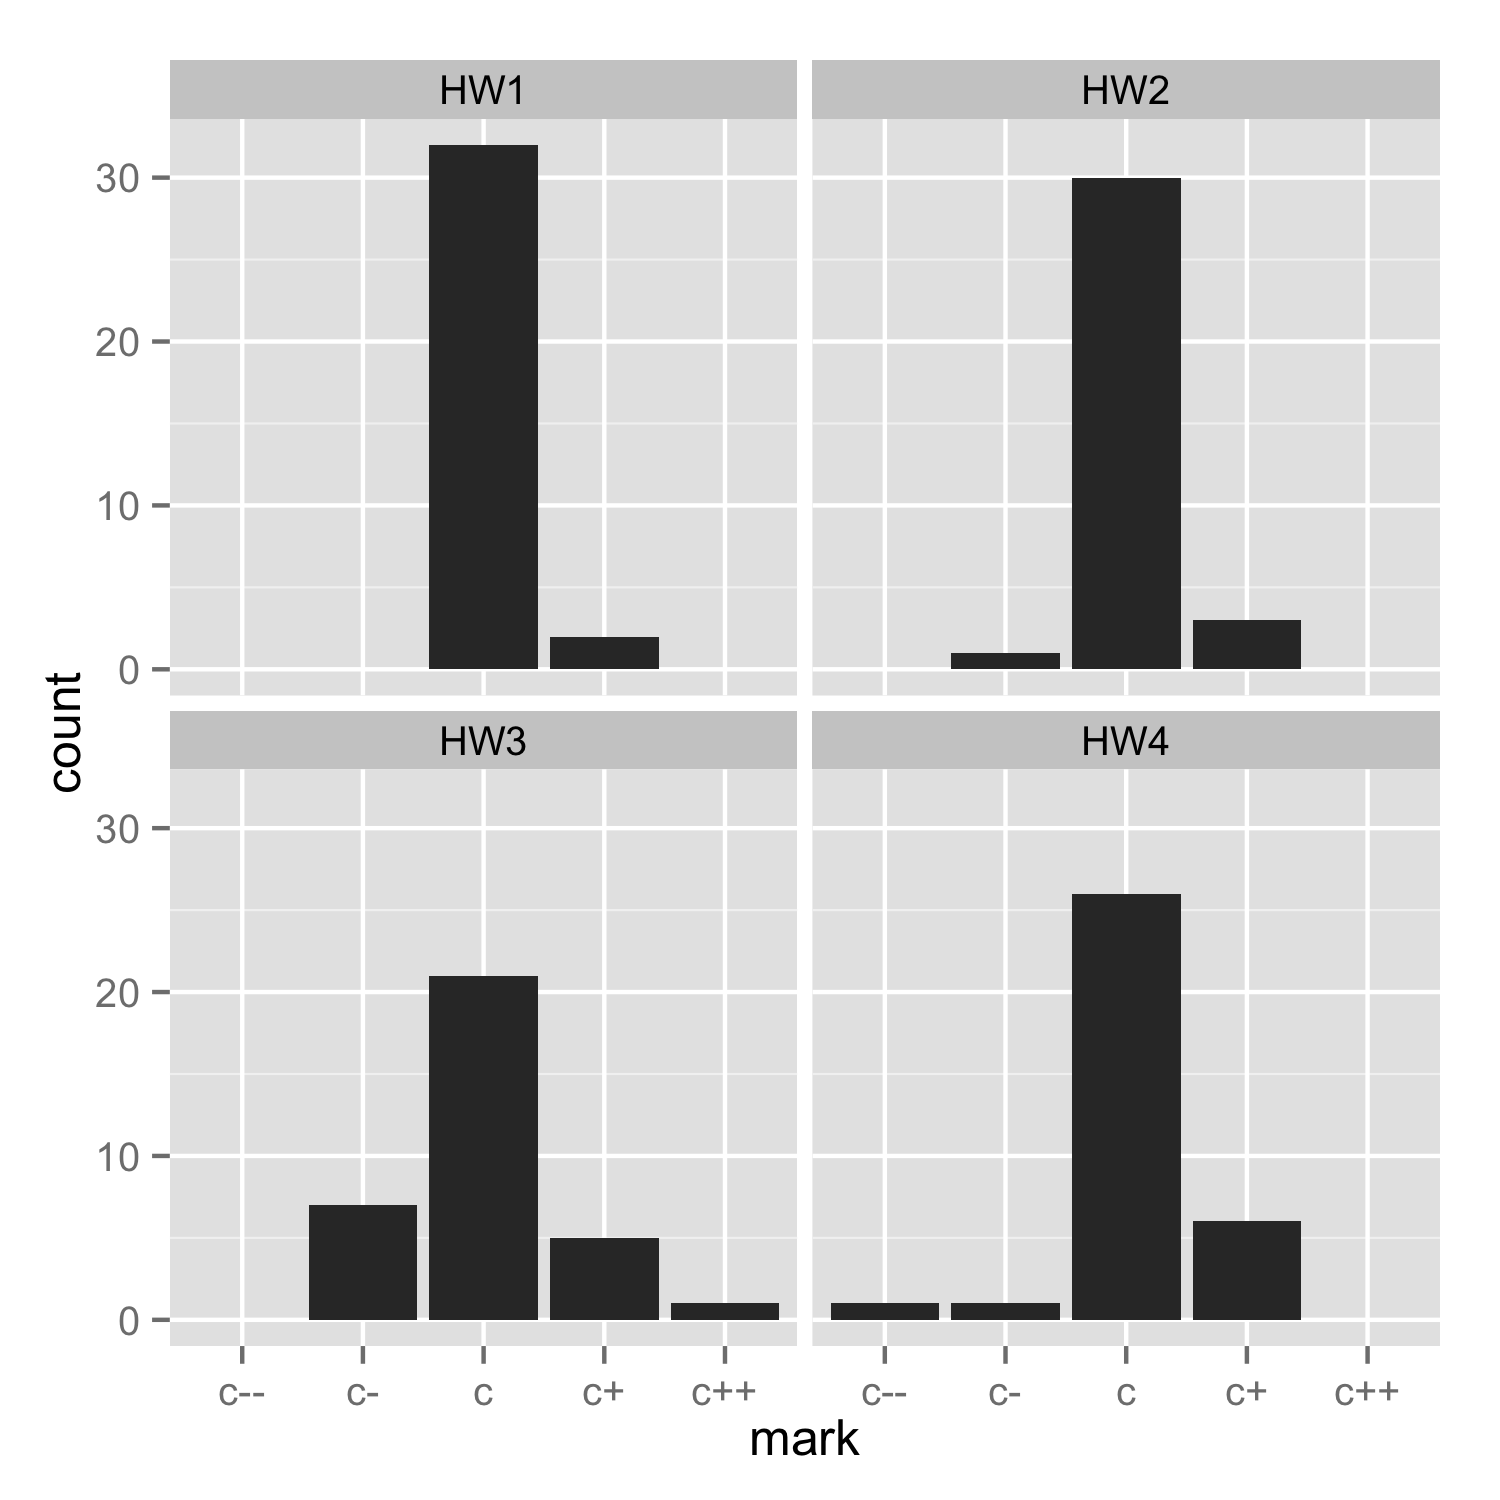
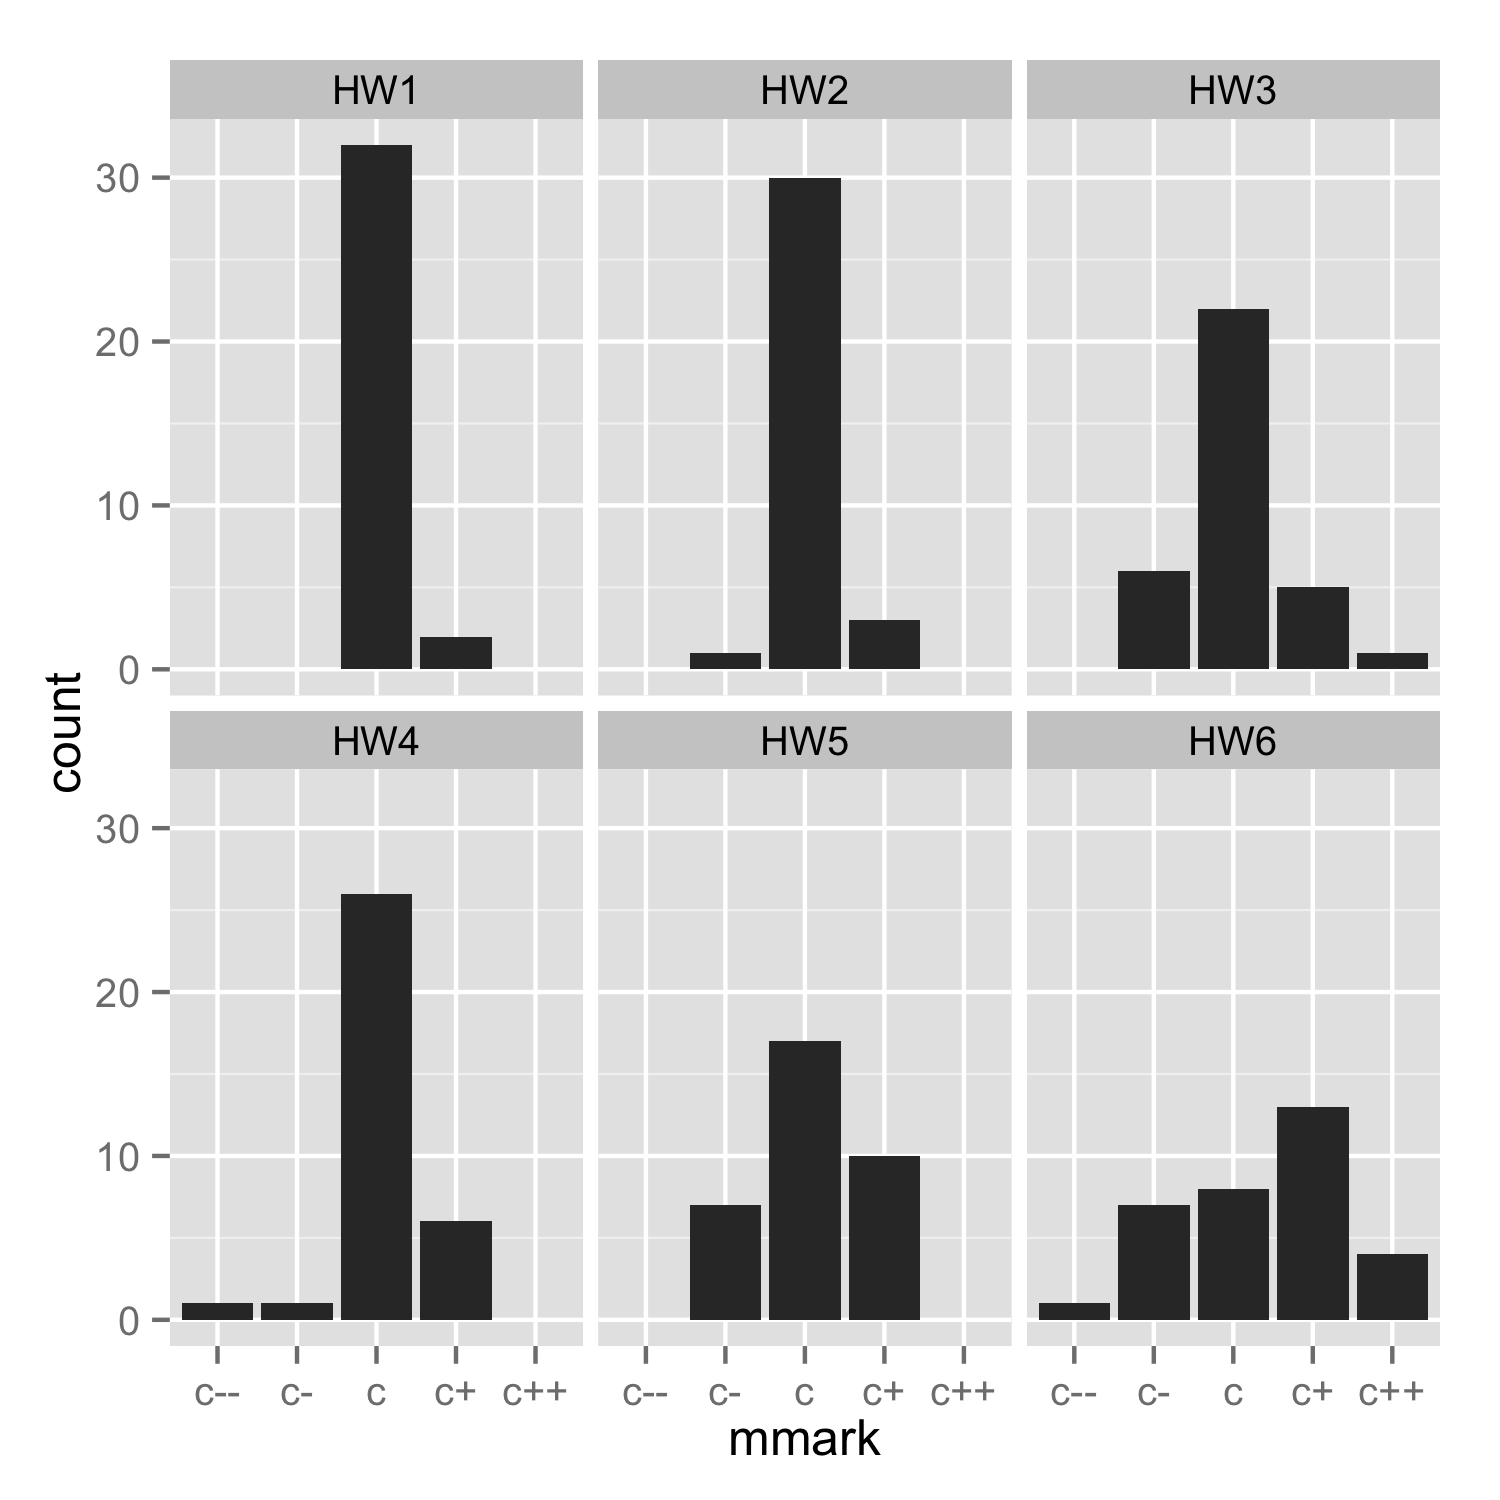
Write up and figures about HW and overall final course marks

diff --git a/hw99_markingNotes.md b/hw99_markingNotes.md
@@ -1,11 +1,58 @@
 Go back to [STAT545A home](current.html)
 
-Homework Marking Notes
+Descriptive statistics on HW and course marks
 ========================================================
 
-Early aggregate info on the homework marks, as conveyed by TA to JB. JB has not yet mapped these marks into numbers, i.e. decided which number between 0 and 100 corresponds to a "check" on HW3. But the final course marks are expected to inhabit the same ranges as previous years. Here are summary statistics of course marks in STAT545A in 2011 and 2012:
+There were six homework assignments:
+
+  * [HW1](hw01_compileNotebook.html) Write short R script, publish it as a Gist, compile it to an HTML notebook and publish that to RPubs
+  * [HW2](hw02_rmarkdownGapminder.html) Basic intake and exploration of Gapminder data; package in an R Markdown document, publish it as a Gist, compile to HTML and publish that to RPubs
+  * [HW3](hw03_dataAggregation.html) Data aggregation with `plyr` (plus usual publishing stuff)
+  * [HW4](hw04_univariateLattice.html) `lattice` graphics (plus usual publishing stuff)
+  * [HW5](hw05_anythingGgplot2.html) `ggplot2` graphcs (plus usual publishing stuff)
+  * [HW6](hw06_puttingAllTogether.html) Build a modest, automated data exploration and visualization pipeline and publish it to web
+  
+Assignments were marked on a coarse scale of check minus, check, check plus. Of course, we eventually needed a larger range and used check minus minus and check plus plus. HW1 - HW4 were marked by the TA and vetted by the instructor. HW5 and HW6 were marked by TA and instructor, with instructor making final decisions. Instructor ran all the pipelines submitted for HW6. Yikes.
+
+Here are barcharts of the HW marks for STAT545A in 2013 (typically ~34 registered students or auditors submitted work):
+![](hwMarks-barchart.png)
+
+Coarse marks were converted to numbers like so:
+
++--------+--------+
+| coarse | number |
+| mark   |        |
++========+========+
+| c--    | 76     |
++--------+--------+
+| c-     | 79     |
++--------+--------+
+| c      | 85     |
++--------+--------+
+| c+g    | 90     |
++--------+--------+
+| c+     | 93     |
++--------+--------+
+| c++    | 98     |
++--------+--------+
+
+The mark `c+g` was used only on HW6. It was "check plus, Gapminder division". This was needed to reward very strong work, while being fair to those who reached a similar level of accomplishment *with a novel dataset*.
+
+Overall course marks were computed as a weighted average of the 6 homework assignments. Weights for HW1 and HW2 were 1. Weights for HW3, HW4, HW5, and HW6 were 3. *In case you're worried, the `weighted.mean()` function scales the weights to sum to 1!*
+
+Here are the course marks plotted against rank. There were lots of ties. Only 33 participants completed all 6 HWs, since some auditors skipped assignments and for them no course mark was computed:
+![](courseMarks-ANONYMOUS.png)
+
+Here is a densityplot of the course marks, with actual marks depicted as dots, jittered in the y-direction:
+![](courseMarks-densityplot.png)
+
+Here are summary statistics of course marks in STAT545A in 2011, 2012, and 2013:
 
 ```
+## 2013
+## Min. 1st Qu.  Median    Mean 3rd Qu.    Max. 
+## 79.00   84.00   86.00   86.27   88.00   94.00 
+
 ## 2012
 ##  Min. 1st Qu.  Median    Mean 3rd Qu.    Max.
 ## 81.68   83.68   89.68   83.51   91.42   92.80
@@ -15,9 +62,7 @@ Early aggregate info on the homework marks, as conveyed by TA to JB. JB has not 
 ##  77.98   81.41   82.83   83.81   84.26   94.46
 ```
 
-Here is a barchart of the marks for STAT545A in 2013 for the first 4 homeworks (there are 34 students taking the course):
-![](hwMarks-barchart.png)
-
+<!--
 Here are links to strong student work on the homework in 2013 (a somewhat random selection among the people receiving the highest mark on a given homework ... JB may yet change these "features"):
 
   * [HW1](hw01_compileNotebook.html): "Compile a Notebook", publish to RPubs, post the source as a Gist
@@ -37,4 +82,4 @@ Here are links to strong student work on the homework in 2013 (a somewhat random
     - Dean Attali: [source](https://gist.github.com/daattali/6847430#file-stat545a-2013-hw05_attali-dea-rmd) | [report](http://rpubs.com/daattali/stat545a-2013-hw05_attali-dea)
     - Zhang, Johnathan: [source](https://gist.github.com/jzhang722/6847642#file-stat545a-2013-hw05_zhang-jon) | [report](http://rpubs.com/jzhang722/stat545a-2013-hw05_zhang-jon)
   * [HW6](hw06_puttingAllTogether.html): Build a small (semi-)automated data analysis pipeline
-            
+-->           

diff --git a/current.md b/current.md
@@ -147,9 +147,13 @@ Monday Oct 14 is a statutory holiday. No class. Happy Thanksgiving!
   * Work through
     - [R coding style and organizing analytical projects](block19_codeFormattingOrganization.html)
 
-  * [Draft summary](hw09_markingNotes.html) of the marking on all the homeworks
-
   * Submit [homework 6](hw06_puttingAllTogether.html) by 12pm noon Monday Oct. 21.
+
+### cm 99 | December | Course wrap-up
+
+  * [Descriptive statistics](hw99_markingNotes.html) on HW and course marks
+
+
 
 <div class="footer">
 This work is licensed under the  <a href="http://creativecommons.org/licenses/by-nc/3.0/">CC BY-NC 3.0 Creative Commons License</a>.
